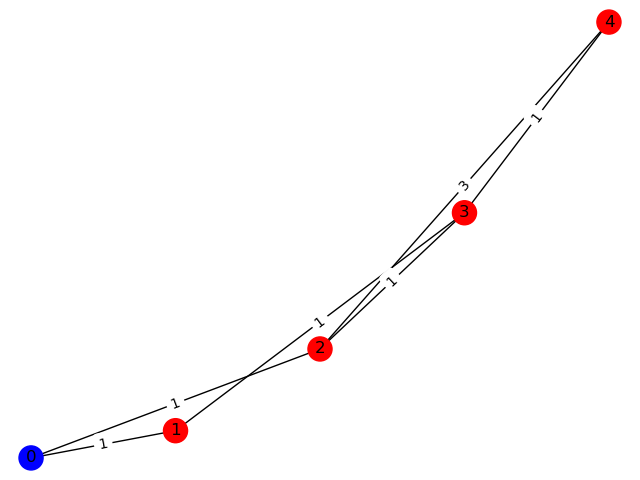
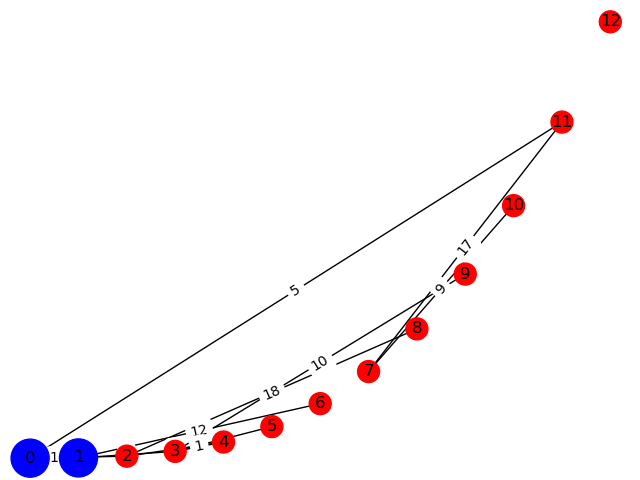
Graph Visualization updated to make nodes with higher centrality clearly spotted

diff --git a/graph.py b/graph.py
@@ -10,10 +10,11 @@ n = res[0]
 m = res[1]
 G = nx.Graph()
 color_map = []
+node_sizes = []
 input = input('For Degree Centrality enter "d"\nFor Betweenness Centrality enter "b"\nFor Closeness Centrality enter "c":')
 
 for i in range(n):
-    G.add_node(i, pos=(i, 2*i*i))
+    G.add_node(i, pos=(i, 2*i*i*i))
 with open('myfile.txt', 'r') as myfile:
     for line in islice(myfile, 1, None):
         result = [int(k) for k in line.split() if k.isdigit()]
@@ -30,7 +31,11 @@ if input == 'd':
     for node in G:
         if deg_cen[node] == x:
             color_map.append('blue')
-        else: color_map.append('red')
+            node_sizes.append(750)
+        else:
+            color_map.append('red')
+            node_sizes.append(250)
+
 
 if input == 'b':
     bet_cen = nx.betweenness_centrality(G, weight="weight", normalized=False)
@@ -38,9 +43,12 @@ if input == 'b':
     print(y)
     print("# Betweenness centrality:" + str(bet_cen))
     for node in G:
-        if node == 0:
+        if bet_cen[node] == bet_cen[y]:
             color_map.append('blue')
-        else: color_map.append('red')
+            node_sizes.append(750)
+        else:
+            color_map.append('red')
+            node_sizes.append(250)
 
 if input == 'c':
     clo_cen = nx.closeness_centrality(G, distance="weight")
@@ -48,13 +56,16 @@ if input == 'c':
     print(z)
     print("# Closeness centrality:" + str(clo_cen))
     for node in G:
-        if node == z:
+        if clo_cen[node] == clo_cen[z]:
             color_map.append('blue')
-        else: color_map.append('red')
+            node_sizes.append(750)
+        else:
+            color_map.append('red')
+            node_sizes.append(250)
 
 pos = nx.get_node_attributes(G, 'pos')
-nx.draw(G,pos, with_labels=True, node_color=color_map)
+nx.draw(G, pos, node_size = node_sizes, with_labels=True, node_color=color_map)
 labels = nx.get_edge_attributes(G, 'weight')
-nx.draw_networkx_edge_labels(G, pos, edge_labels=labels)
+nx.draw_networkx_edge_labels(G, pos, node_size = node_sizes, edge_labels=labels)
 plt.savefig("path.png")
 plt.show()
